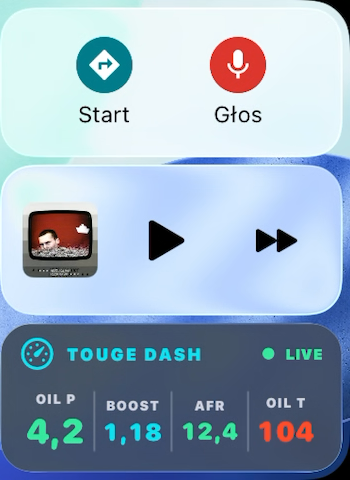
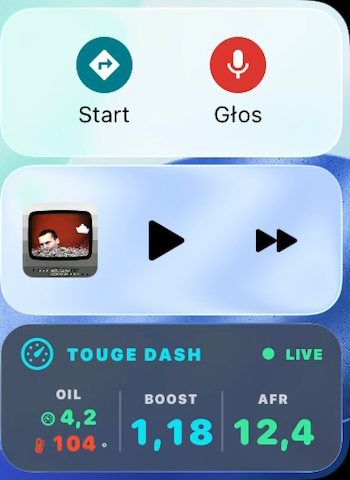
Group oil metrics in CarPlay card

Changed region(s): [[0.0571, 0.8125, 0.9143, 0.9688]]

diff --git a/ios/TougeDashWidgets/TougeDashWidgets.swift b/ios/TougeDashWidgets/TougeDashWidgets.swift
@@ -274,13 +274,7 @@ private struct TelemetryActivityPanel: View {
             }
 
             HStack(spacing: compact ? 0 : 7) {
-                ActivityMetricTile(
-                    title: "OIL P",
-                    value: snapshot.oilPressureBar.formatted(.number.precision(.fractionLength(1))),
-                    unit: "bar",
-                    tint: oilPressureTint(for: snapshot),
-                    compact: compact
-                )
+                ActivityOilTile(snapshot: snapshot, compact: compact)
                 if compact { ActivityMetricDivider() }
                 ActivityMetricTile(
                     title: "BOOST",
@@ -297,20 +291,81 @@ private struct TelemetryActivityPanel: View {
                     tint: WidgetPalette.mint,
                     compact: compact
                 )
-                if compact { ActivityMetricDivider() }
-                ActivityMetricTile(
-                    title: "OIL T",
-                    value: Int(snapshot.oilTemperatureCelsius).formatted(.number.grouping(.never)),
-                    unit: "°C",
-                    tint: oilTemperatureTint(for: snapshot),
-                    compact: compact
-                )
             }
         }
         .padding(.horizontal, compact ? 10 : 14)
         .padding(.vertical, compact ? 7 : 11)
         .accessibilityElement(children: .combine)
         .accessibilityLabel("\(connectionLabel), oil pressure \(snapshot.oilPressureBar) bar, boost \(snapshot.boostBar) bar, AFR \(snapshot.afr), oil temperature \(Int(snapshot.oilTemperatureCelsius)) degrees Celsius")
+    }
+}
+
+private struct ActivityOilTile: View {
+    let snapshot: TelemetrySnapshot
+    let compact: Bool
+
+    var body: some View {
+        VStack(spacing: compact ? 1 : 2) {
+            Text("OIL")
+                .font(.system(size: compact ? 7 : 8, weight: .black))
+                .tracking(0.3)
+                .foregroundStyle(.secondary)
+
+            ActivityOilValue(
+                symbol: "gauge.with.dots.needle.33percent",
+                value: snapshot.oilPressureBar.formatted(.number.precision(.fractionLength(1))),
+                unit: compact ? "" : "bar",
+                tint: oilPressureTint(for: snapshot),
+                compact: compact
+            )
+            ActivityOilValue(
+                symbol: "thermometer.medium",
+                value: Int(snapshot.oilTemperatureCelsius).formatted(.number.grouping(.never)),
+                unit: compact ? "°" : "°C",
+                tint: oilTemperatureTint(for: snapshot),
+                compact: compact
+            )
+        }
+        .frame(maxWidth: .infinity, minHeight: compact ? 41 : 49)
+        .padding(.horizontal, compact ? 4 : 5)
+        .padding(.vertical, compact ? 0 : 5)
+        .background {
+            if !compact {
+                RoundedRectangle(cornerRadius: 10)
+                    .fill(Color.white.opacity(0.055))
+            }
+        }
+    }
+}
+
+private struct ActivityOilValue: View {
+    let symbol: String
+    let value: String
+    let unit: String
+    let tint: Color
+    let compact: Bool
+
+    var body: some View {
+        HStack(alignment: .lastTextBaseline, spacing: compact ? 2 : 3) {
+            Image(systemName: symbol)
+                .font(.system(size: compact ? 7 : 8, weight: .bold))
+                .foregroundStyle(tint.opacity(0.85))
+                .frame(width: compact ? 9 : 11)
+            Text(value)
+                .font(.system(size: compact ? 11 : 15, weight: .black, design: .rounded))
+                .monospacedDigit()
+                .foregroundStyle(tint)
+                .lineLimit(1)
+                .minimumScaleFactor(0.7)
+                .allowsTightening(true)
+                .layoutPriority(1)
+            if !unit.isEmpty {
+                Text(unit)
+                    .font(.system(size: compact ? 6 : 7, weight: .bold))
+                    .foregroundStyle(.secondary)
+                    .lineLimit(1)
+            }
+        }
     }
 }
 

diff --git a/ios/TougeDash/Telemetry/TelemetryController.swift b/ios/TougeDash/Telemetry/TelemetryController.swift
@@ -50,6 +50,11 @@ final class TelemetryController: ObservableObject {
             .store(in: &cancellables)
         Task { [weak self] in
             guard let self else { return }
+            #if DEBUG
+            if ProcessInfo.processInfo.environment["TOUGE_DASH_PREVIEW_TELEMETRY"] == "1" {
+                await self.activityManager.stop()
+            }
+            #endif
             await self.activityManager.start(
                 with: self.snapshot,
                 connectionLabel: self.connectionLabel
